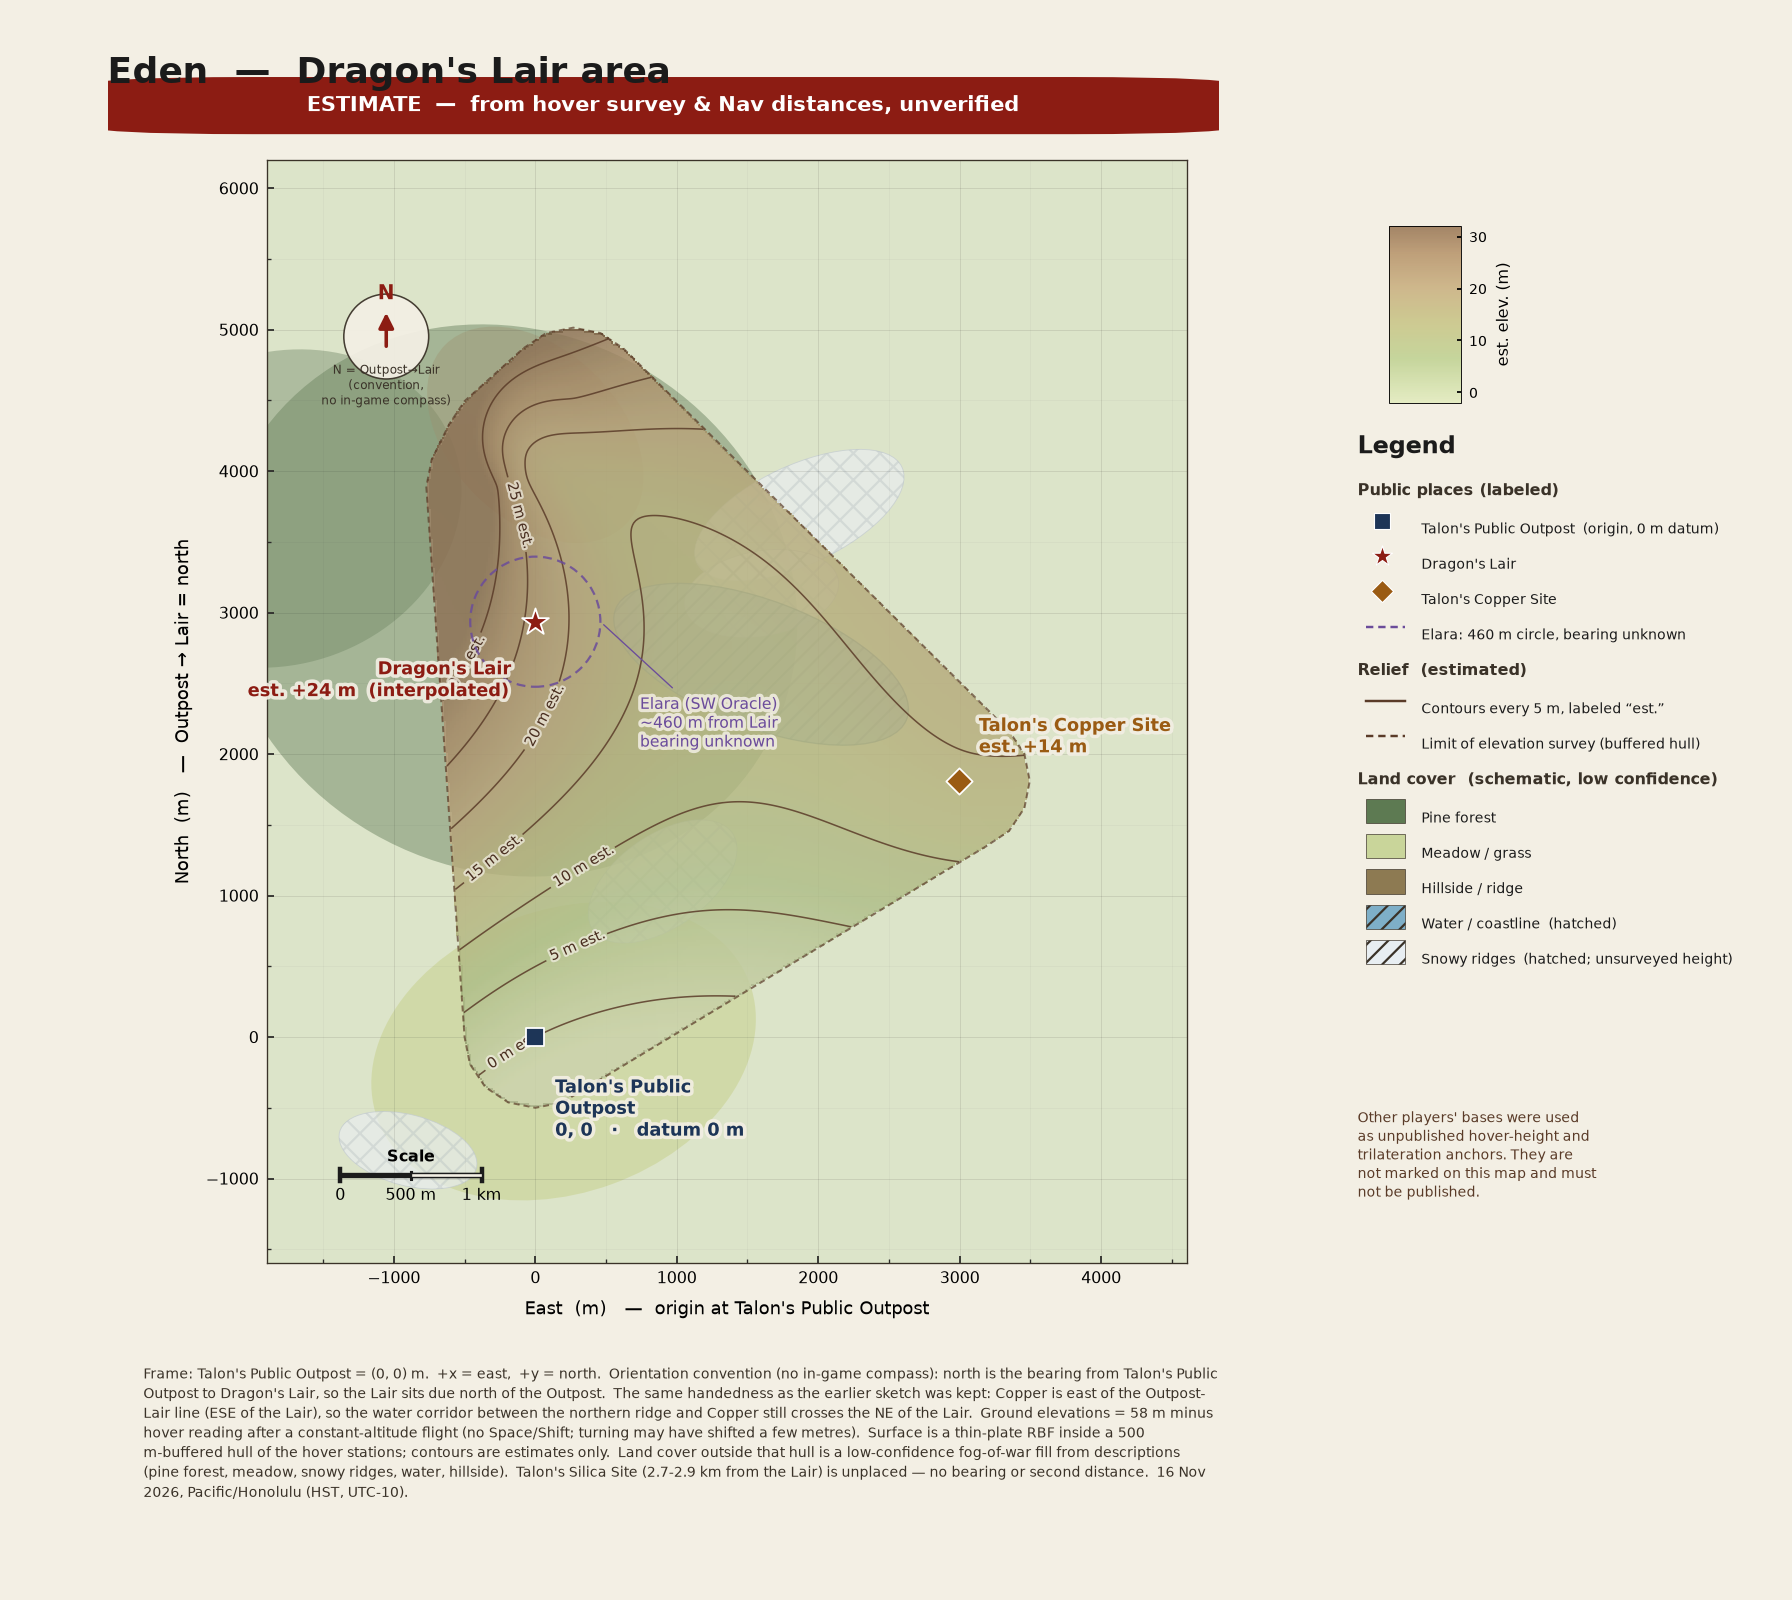
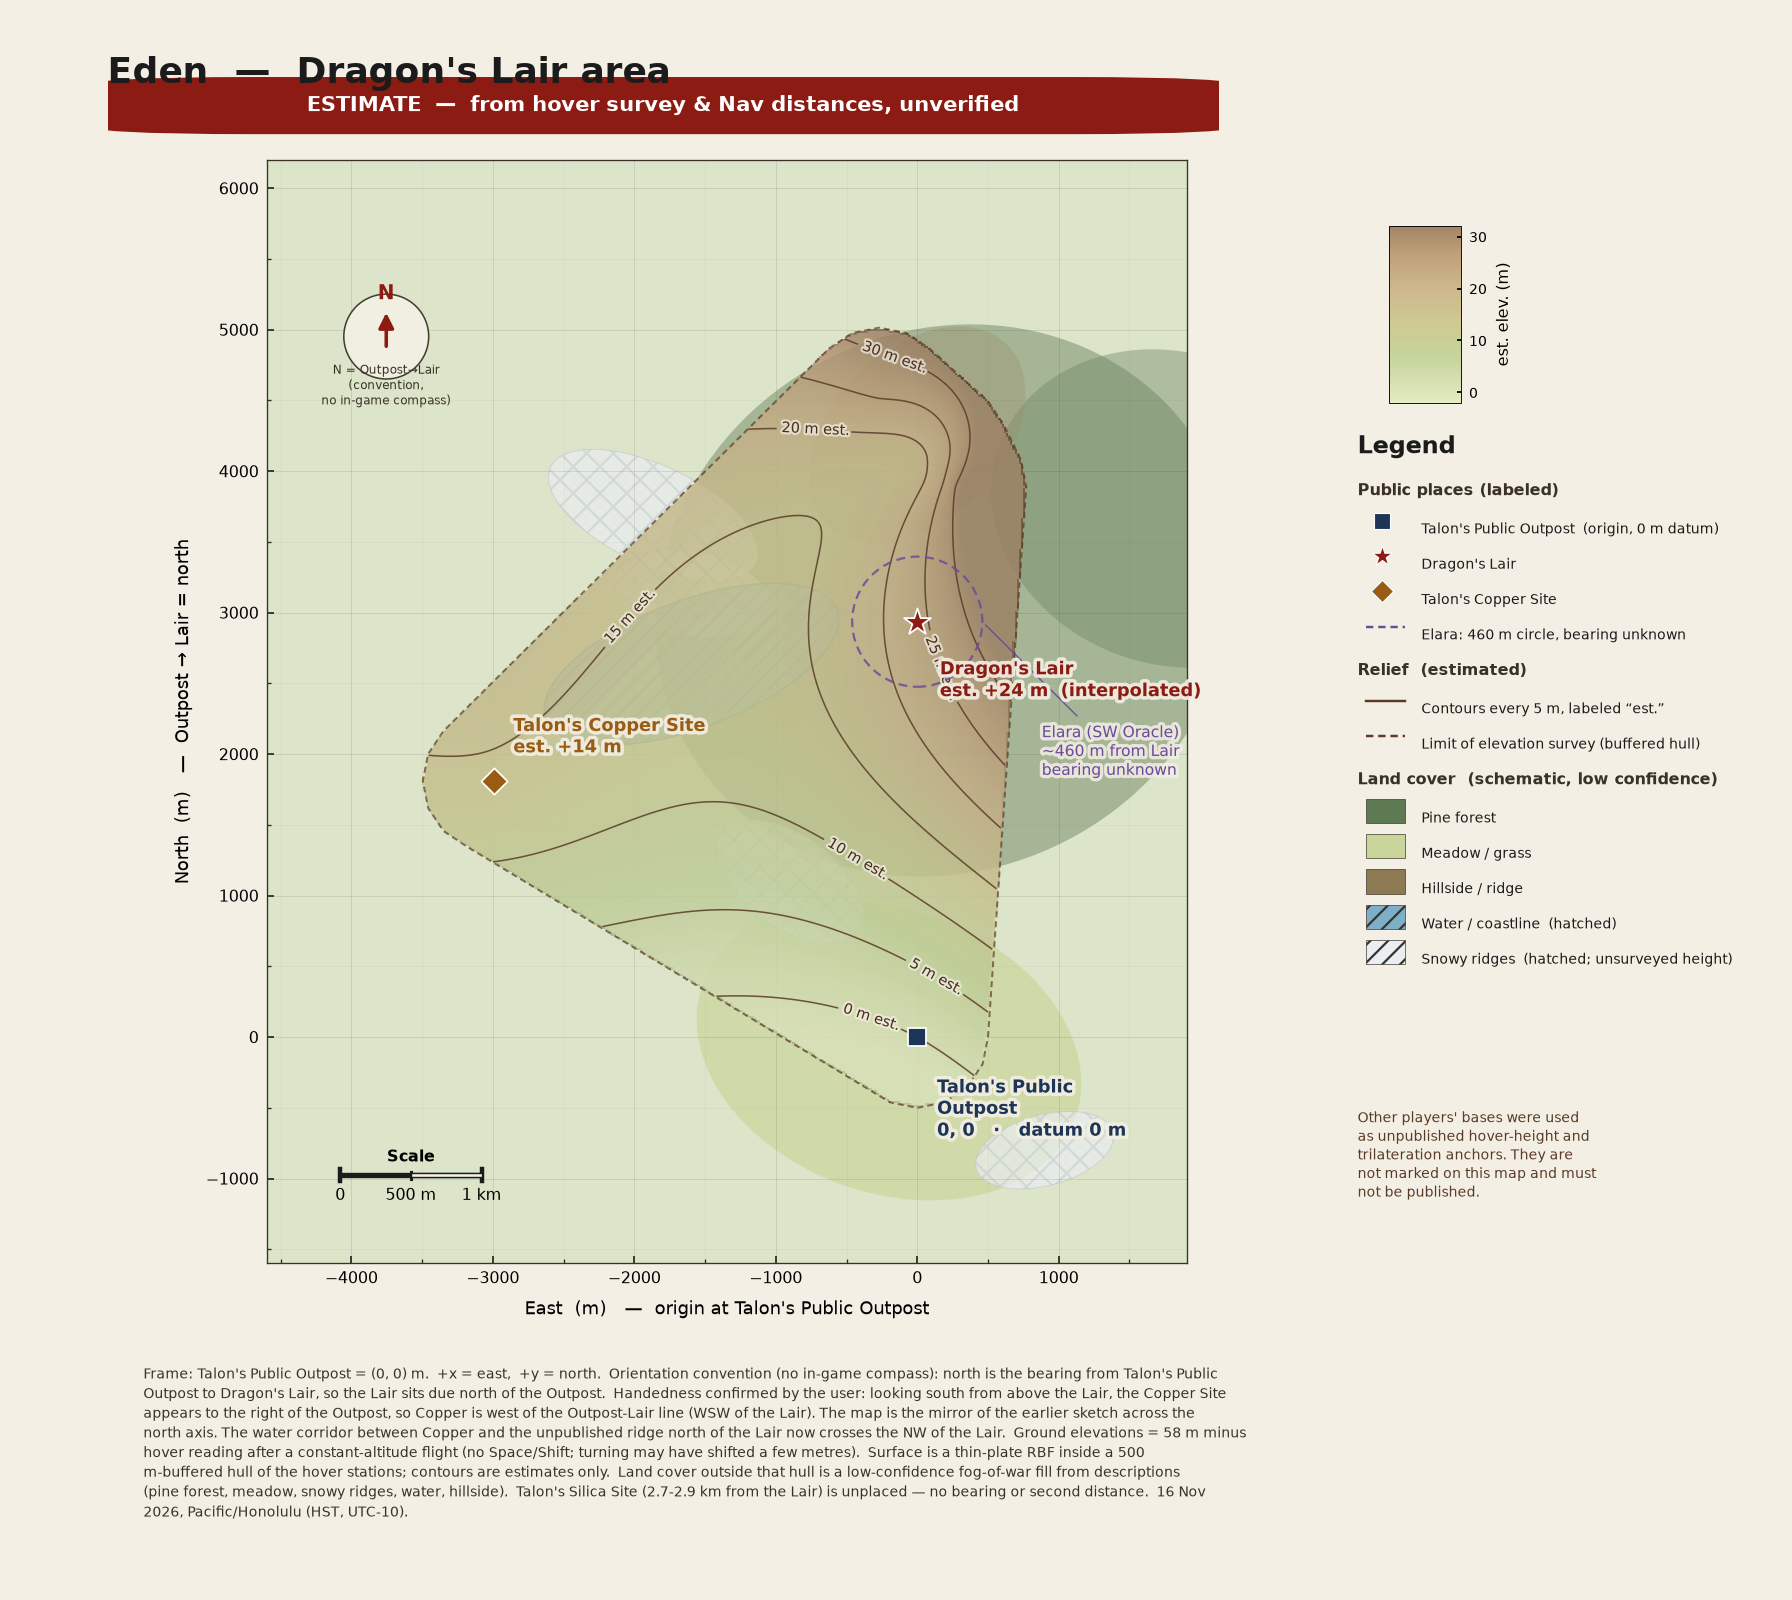
fix(map): mirror the Eden relief so Copper is west
The user confirmed Copper is west of the Outpost-to-Lair line. Replace the plate, shift its georeference, and correct the notes that put Copper east and the water northeast.

diff --git a/logs/2026-11-16.md b/logs/2026-11-16.md
@@ -10,7 +10,7 @@ Eden, around Dragon's Lair. This entry records an estimate. It is not a new walk
 
 The game has no coordinates and no compass. No sun-derived north was taken, so `bearing_deg` stays null and Eden's `north_derived` stays false.
 
-An unverified relief plate was drawn from a hover survey and from Nav distances. Elevation is 58 m minus the hover reading. Talon's Public Outpost is the 0 m datum. Positions are trilaterated from in-game Nav distances. On the plate, north is the bearing from the Outpost to Dragon's Lair, so the Lair is due north of the Outpost.
+An unverified relief plate was drawn from a hover survey and from Nav distances. Elevation is 58 m minus the hover reading. Talon's Public Outpost is the 0 m datum. Positions are trilaterated from in-game Nav distances. On the plate, north is the bearing from the Outpost to Dragon's Lair, so the Lair is due north of the Outpost. Looking south from the Lair, Copper is to the right of the Outpost, so Copper is west of that line, WNW of the Outpost. Water on the plate is northwest of the Lair.
 
 The map origin is still Dragons Lair Base at east 0, north 0. Plate metres are shifted onto that plane: display east = plate east, display north = plate north − 2936.2 m. The plate is `data/eden-lair-relief-estimate.png`, described by `data/eden-relief-estimate.json`. It is off until **Estimate (unverified)** is checked.
 
@@ -18,7 +18,7 @@ The map origin is still Dragons Lair Base at east 0, north 0. Plate metres are s
 | --- | --- | --- | --- |
 | Dragons Lair Base | origin, already logged | | east 0, north 0. Not entered again. Interpolated height on the plate is about +24 m and is not written onto the origin. |
 | Talon's Public Outpost | 2936.2 m from the Lair, fitted | convention: due south of the Lair | east 0, north −2936.2. Elevation 0 m. |
-| Talon's Copper Site | about 3.2 km from the Lair, about 3.5 km from the Outpost | no compass bearing | east 2995.4, north −1125.8. Elevation about +14 m. |
+| Talon's Copper Site | about 3.2 km from the Lair, about 3.5 km from the Outpost | no compass bearing | east −2995.4, north −1125.8. WNW of the Outpost. Elevation about +14 m. |
 | Elara | about 460 m from the Lair area | unknown | not placed |
 | Talon's Silica Site | about 2.7 km from near the Lair, about 2.9 km from 342 m above ground | unknown | not placed |
 

diff --git a/README.md b/README.md
@@ -171,7 +171,7 @@ node scripts/validate-explored.mjs
 
 The plate measures east and north from Talon's Public Outpost. This site's Eden origin is still Dragons Lair Base at (0, 0). The plate is shifted so the Lair on the image sits on that origin: display east = plate east, and display north = plate north − 2936.2 m. 2936.2 m is the fitted Outpost-to-Lair distance. On the plate the Lair is due north of the Outpost.
 
-Heights on the plate are hover-survey estimates: elevation = 58 m minus the hover reading, and the Outpost is the 0 m datum. Positions are trilaterated from in-game Nav distances. North is a convention, the bearing from the Outpost to Dragon's Lair, because the game has no compass. `north_derived` for Eden stays false.
+Heights on the plate are hover-survey estimates: elevation = 58 m minus the hover reading, and the Outpost is the 0 m datum. Positions are trilaterated from in-game Nav distances. North is a convention, the bearing from the Outpost to Dragon's Lair, because the game has no compass. `north_derived` for Eden stays false. Looking south from the Lair, Copper is to the right of the Outpost, so Copper is west of the Outpost-to-Lair line, WNW of the Outpost. Water on the plate is northwest of the Lair.
 
 Talon's Public Outpost and Talon's Copper Site are locations with `approximate` set to true. Elara and Talon's Silica Site are in the file without a display position, because the bearing is unknown. Dragon's Lair is the existing origin and is not entered again. The plate's interpolated Lair height is not written onto that feature.
 

diff --git a/worlds/eden.md b/worlds/eden.md
@@ -24,6 +24,6 @@ Estimate (unverified), logged 2026-11-16. A relief plate for this area is `data/
 
 The plate's method: hover-survey heights, elevation = 58 m minus the hover reading, with Talon's Public Outpost as the 0 m datum; positions trilaterated from in-game Nav distances; north is the Outpost-to-Lair line, because the game has no compass. The plate measures from the Outpost. Display metres use Dragons Lair Base as (0, 0), so display north = plate north − 2936.2 m.
 
-Talon's Public Outpost is plotted 2936.2 m south of the Lair on that convention, at elevation 0 m. Talon's Copper Site is plotted east of that line, about 3.2 km from the Lair, at an estimated elevation of +14 m. Elara (about 460 m from the Lair area) and Talon's Silica Site (about 2.7 km and about 2.9 km, no bearing) are noted and not placed. The Lair's interpolated height on the plate is not written onto the origin feature.
+Talon's Public Outpost is plotted 2936.2 m south of the Lair on that convention, at elevation 0 m. Talon's Copper Site is plotted west of that line, WNW of the Outpost and WSW of the Lair, about 3.2 km from the Lair, at an estimated elevation of +14 m. Water on the plate is northwest of the Lair. The user confirmed that side by looking south from the Lair, where Copper is to the right of the Outpost. Elara (about 460 m from the Lair area) and Talon's Silica Site (about 2.7 km and about 2.9 km, no bearing) are noted and not placed. The Lair's interpolated height on the plate is not written onto the origin feature.
 
 ## Hazards
